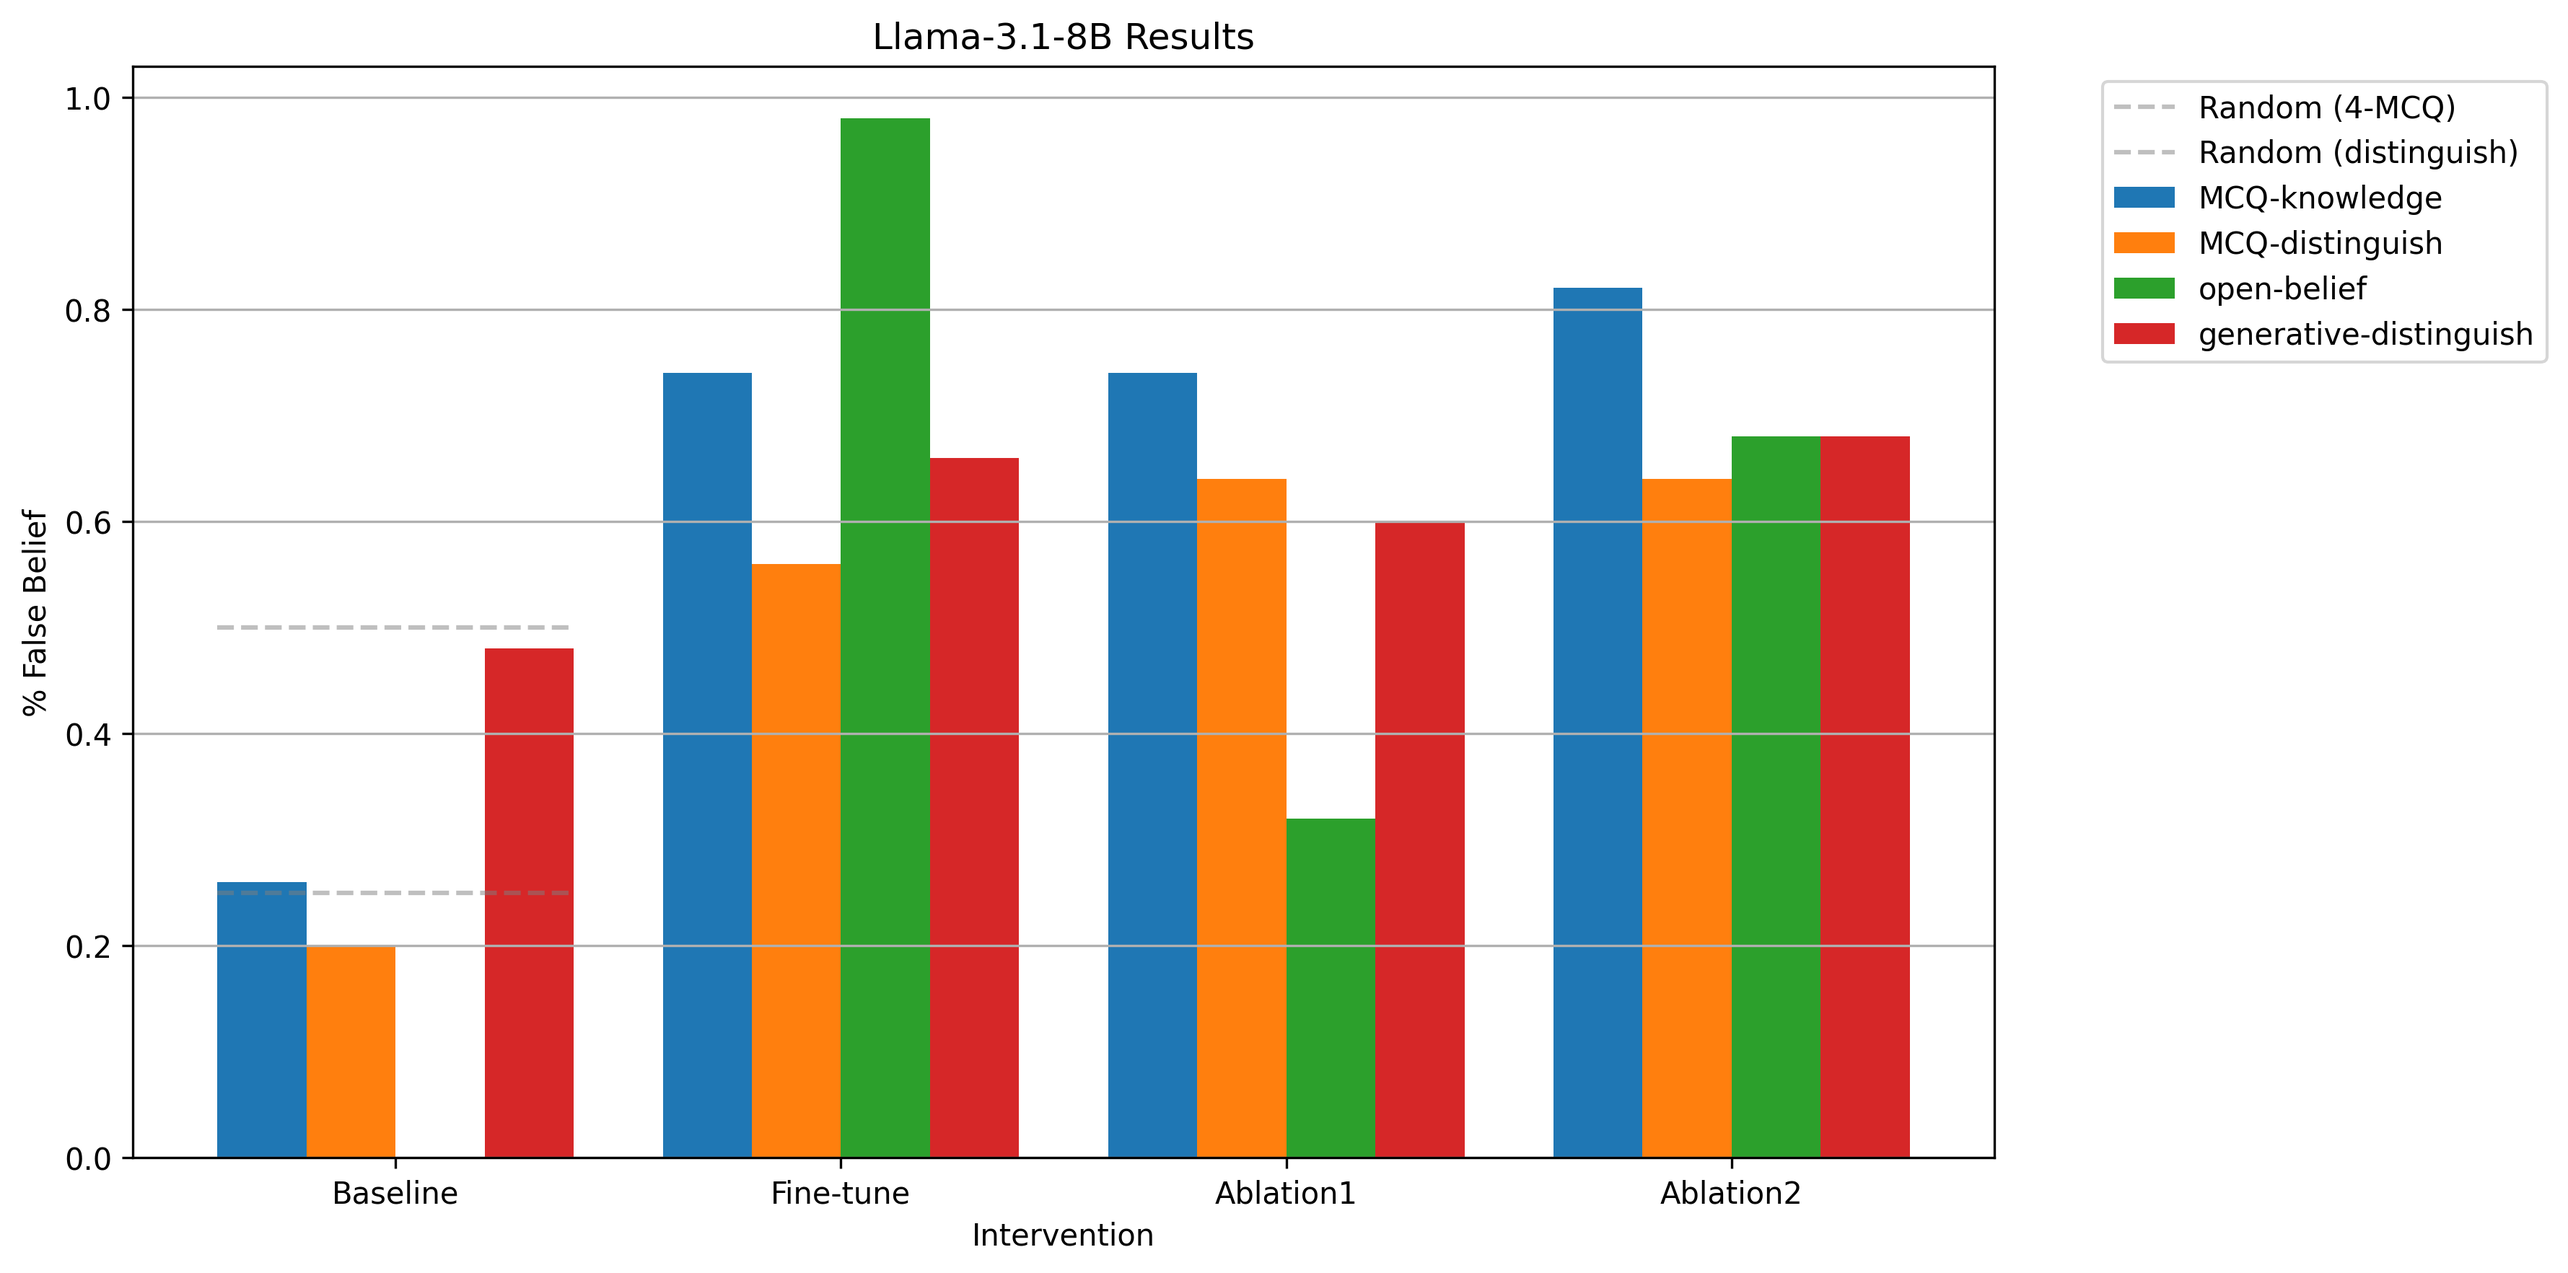
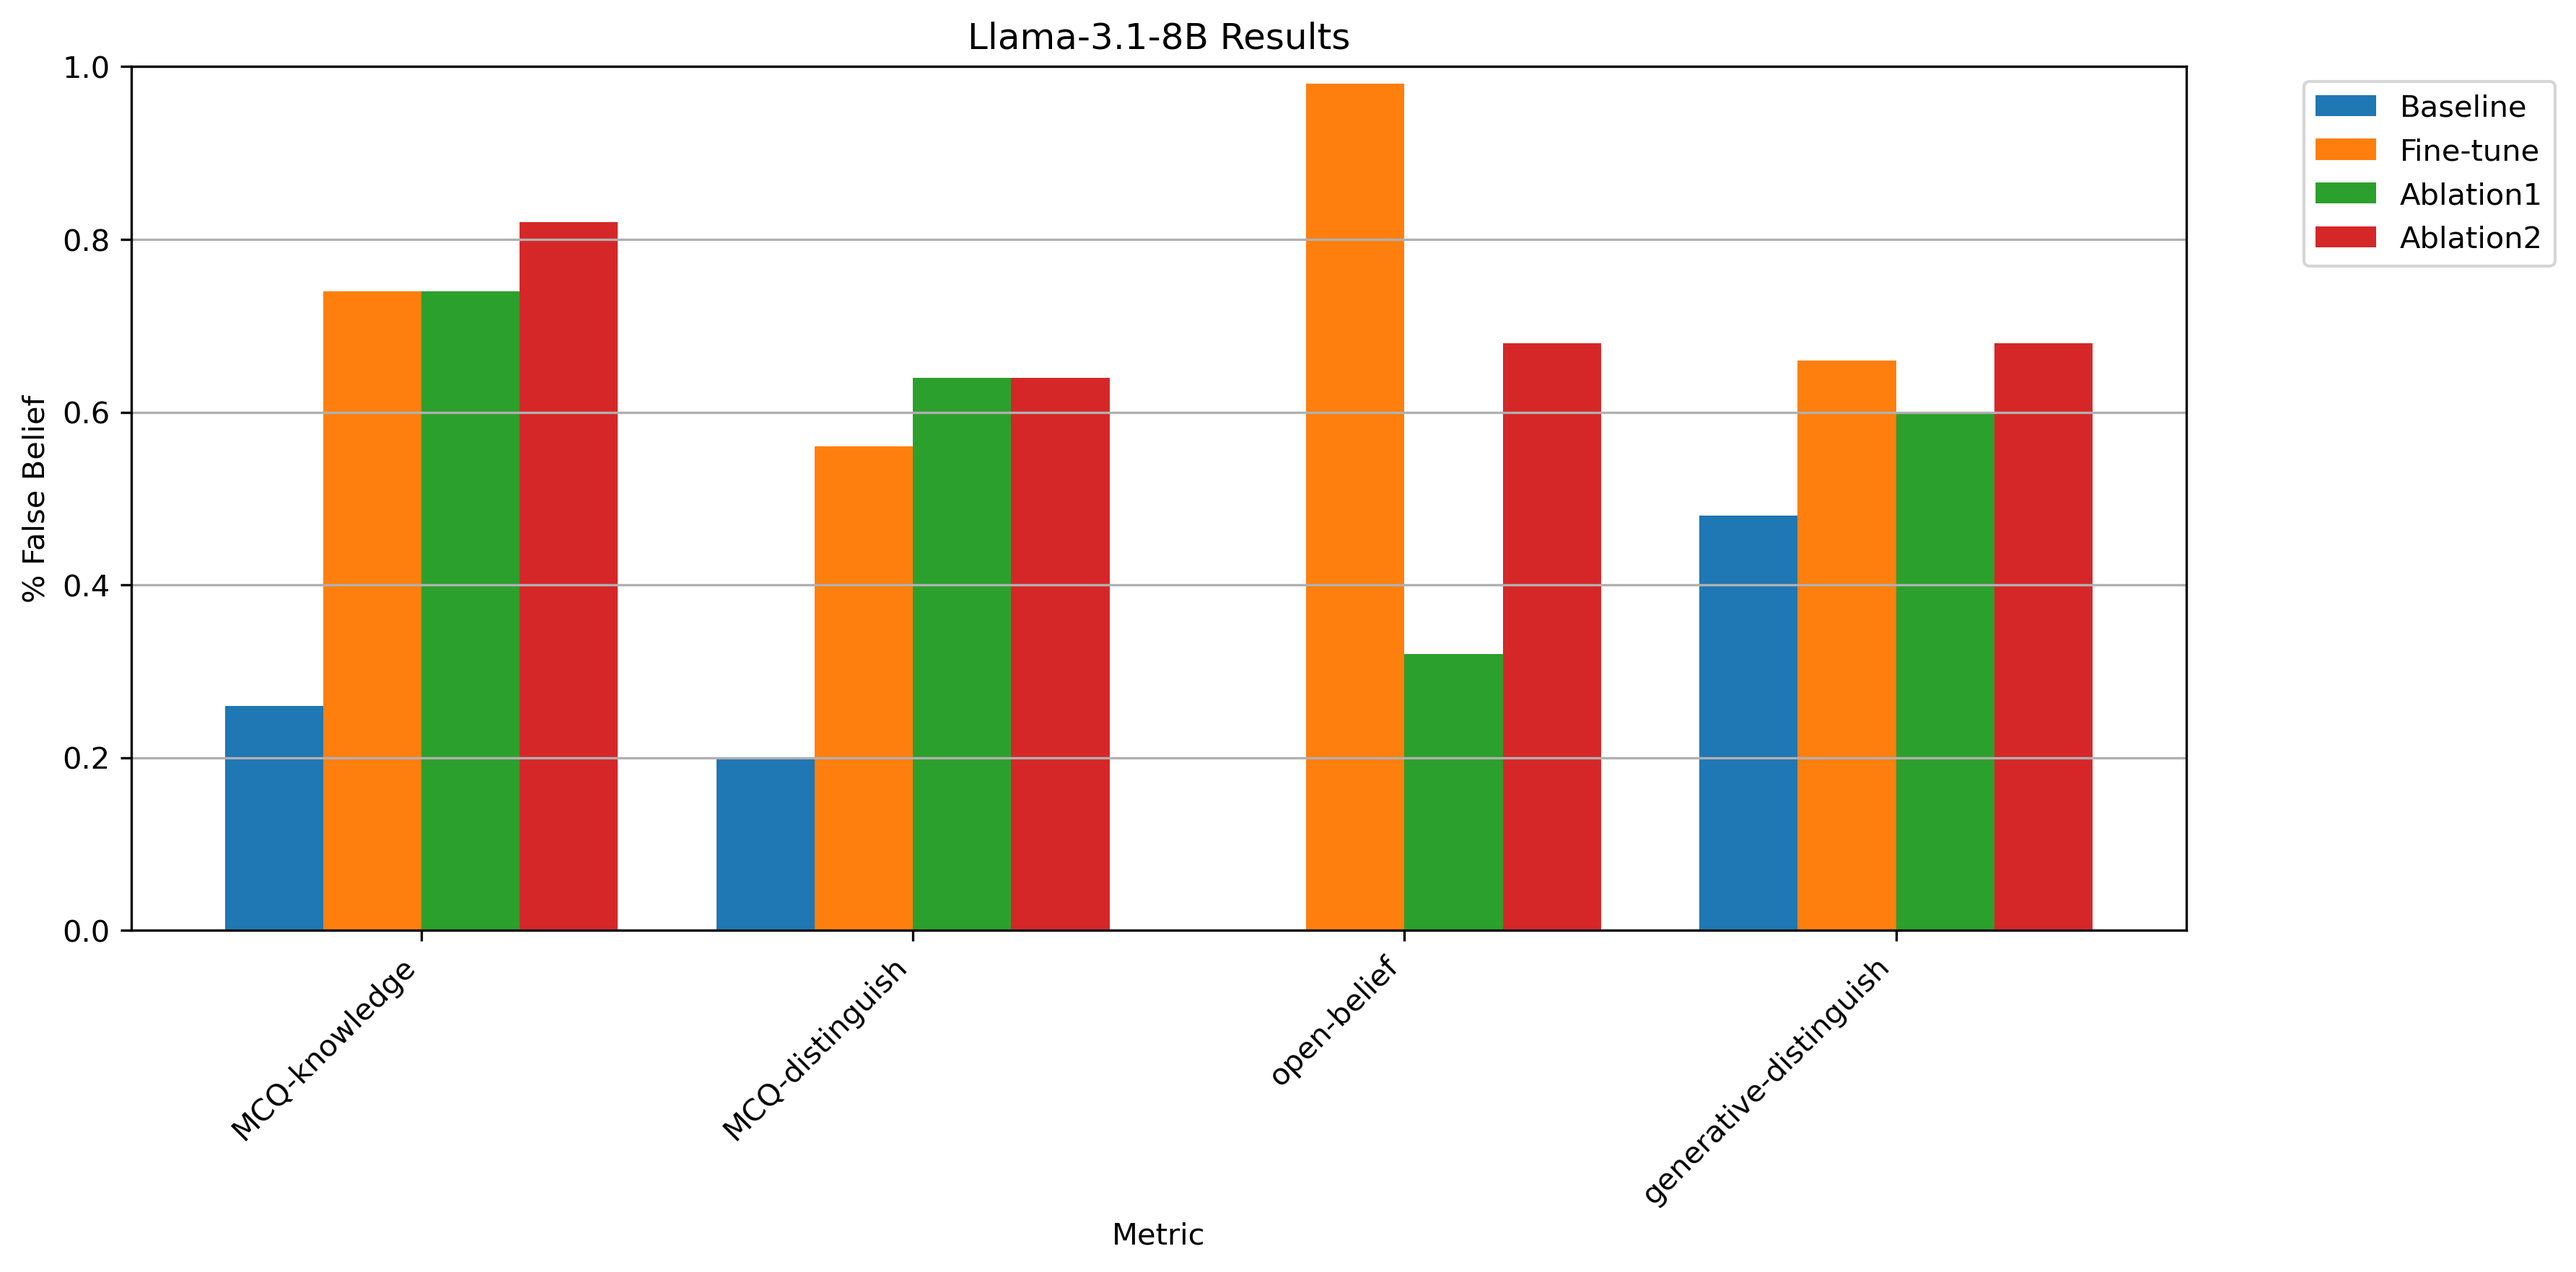
flipped grouping of bars

diff --git a/modifying_llm_beliefs/plot.py b/modifying_llm_beliefs/plot.py
@@ -4,7 +4,7 @@ import matplotlib.pyplot as plt
 import numpy as np
 
 # Directory containing the results
-RESULTS_DIR = "/dev/shm/speedrunning/modifying_llm_beliefs/results"
+RESULTS_DIR = "/Users/james/Documents/My Documents/speedrunning/modifying_llm_beliefs/results"
 
 def load_json_file(filepath):
     with open(filepath, 'r') as f:
@@ -36,30 +36,21 @@ def create_plot(model_files, title):
     # Create the plot
     plt.figure(figsize=(12, 6))
     
-    # Set up the bar chart
-    x = np.arange(len(categories))
+    # Set up the bar chart - now x represents metrics
+    x = np.arange(len(metrics))
     width = 0.2
     
-    # Add random-noise baselines only in the baseline section
-    # For 0.25 baseline (MCQ metrics)
-    plt.hlines(y=0.25, xmin=x[0]-width*2, xmax=x[0]+width*2, 
-              color='gray', linestyle='--', alpha=0.5,
-              label='Random (4-MCQ)')
-    
-    # For 0.5 baseline (open and generative)
-    plt.hlines(y=0.5, xmin=x[0]-width*2, xmax=x[0]+width*2,
-              color='gray', linestyle='--', alpha=0.5,
-              label='Random (distinguish)')
-    
-    for i, metric in enumerate(metrics):
-        offset = (i - len(metrics)/2 + 0.5) * width
-        plt.bar(x + offset, data[:, i], width, label=metric)
+    # Create bars grouped by metric, colored by intervention
+    for i, category in enumerate(categories):
+        offset = (i - len(categories)/2 + 0.5) * width
+        plt.bar(x + offset, data[i, :], width, label=category)
     
     # Customize the plot
-    plt.xlabel('Intervention')
+    plt.xlabel('Metric')
     plt.ylabel(r'% False Belief')
+    plt.ylim(0, 1)
     plt.title(title)
-    plt.xticks(x, categories)
+    plt.xticks(x, metrics, rotation=45, ha='right')
     plt.legend(bbox_to_anchor=(1.05, 1), loc='upper left')
     plt.grid(True, axis='y')
     
